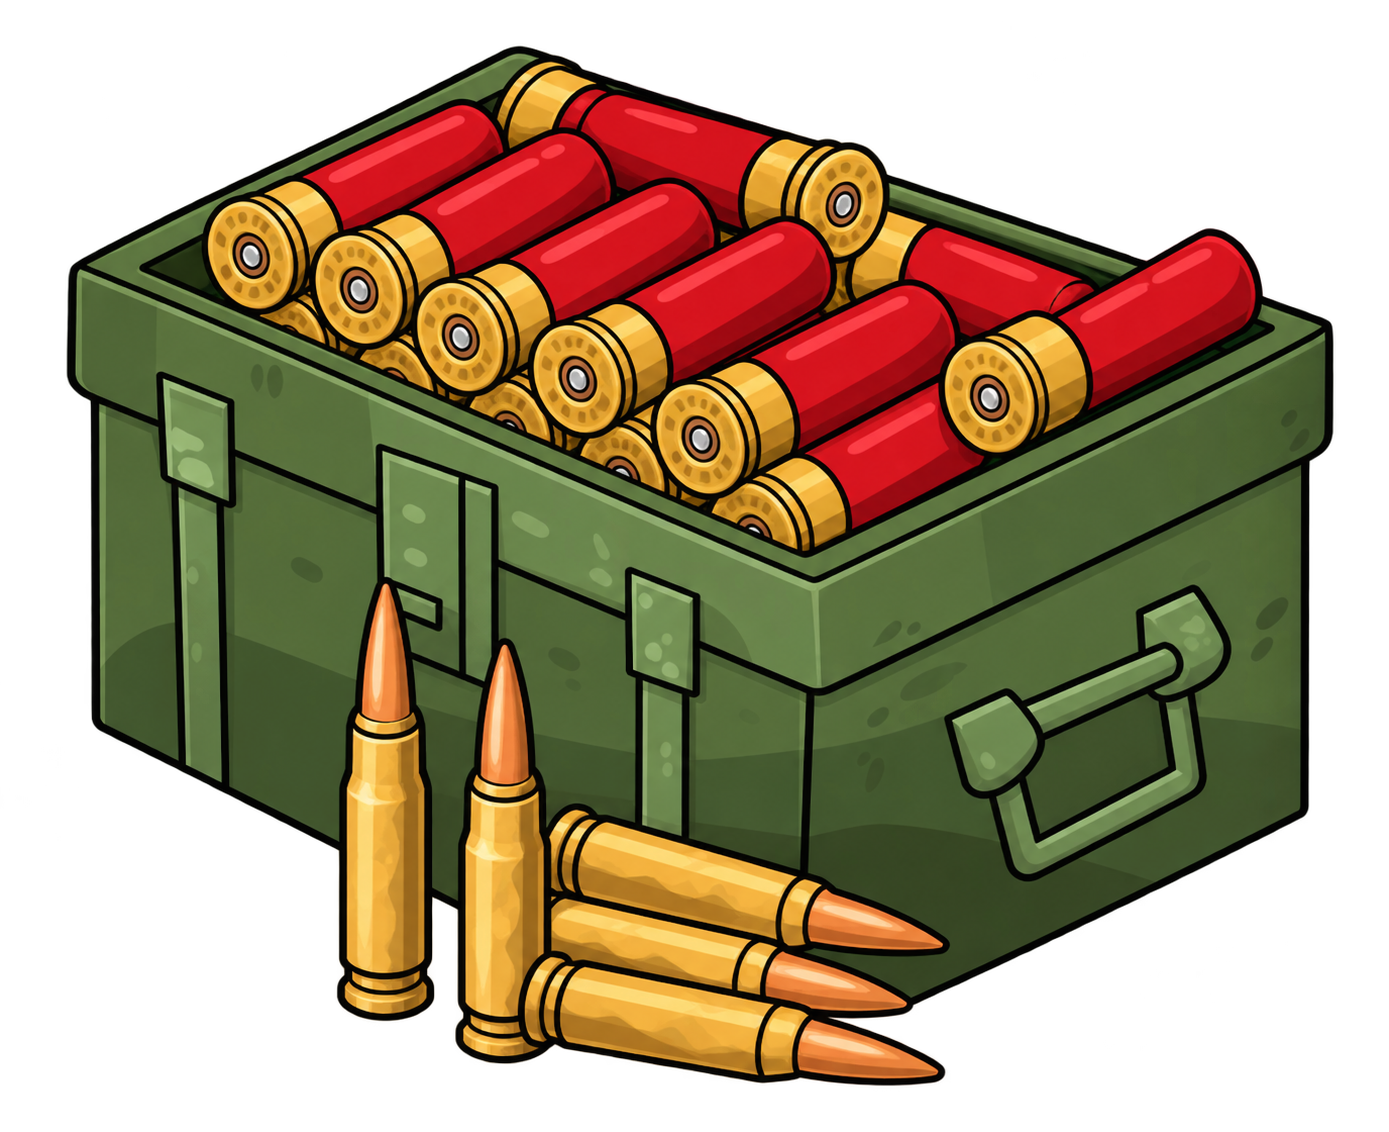
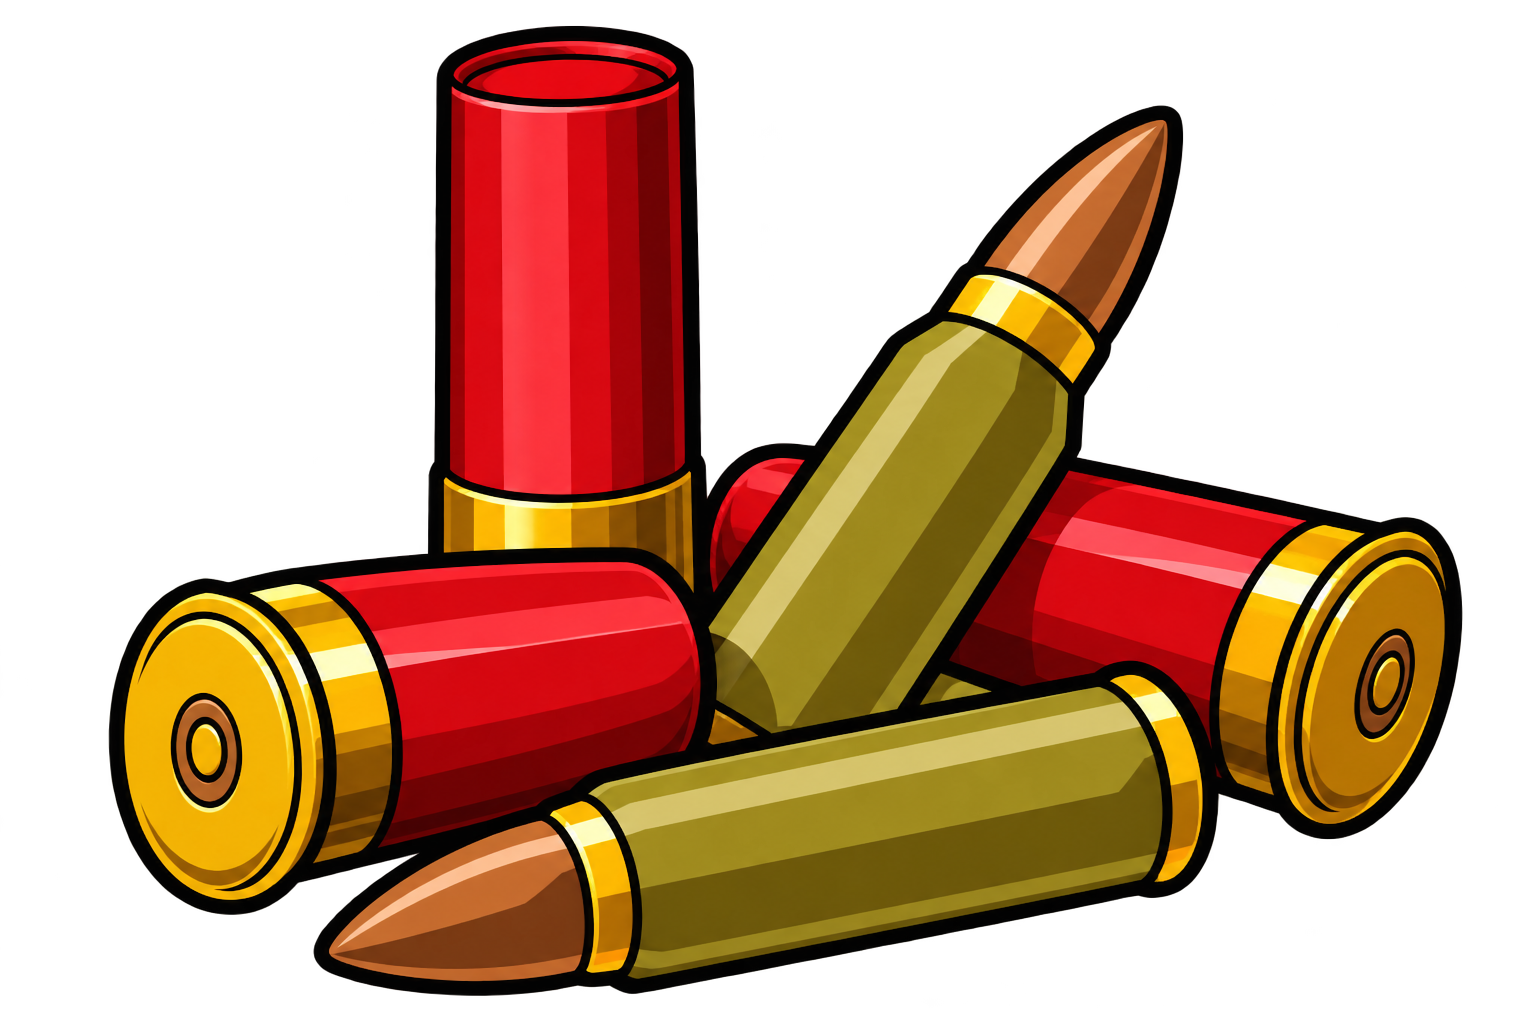
agrego municion dispersa + cambios en el HUD

diff --git a/src/view/hud/HudData.java b/src/view/hud/HudData.java
@@ -1,9 +1,39 @@
 package view.hud;
 
-/** Foto inmutable de lo que el HUD necesita mostrar en este frame (la arma el controlador a partir del modelo). */
-public record HudData(
-        int health, int maxHealth,
-        int shield, int maxShield,
-        double damageBonus,
-        boolean ranged, String weaponName, int ammo, int maxAmmo) {
+/** Foto inmutable de lo que el HUD necesita mostrar en este frame. */
+public final class HudData {
+
+    private final int health;
+    private final int maxHealth;
+    private final int shield;
+    private final int maxShield;
+    private final double damageBonus;
+    private final boolean ranged;
+    private final String weaponName;
+    private final int ammo;
+    private final int maxAmmo;
+
+    public HudData(int health, int maxHealth, int shield, int maxShield,
+                   double damageBonus, boolean ranged, String weaponName,
+                   int ammo, int maxAmmo) {
+        this.health = health;
+        this.maxHealth = maxHealth;
+        this.shield = shield;
+        this.maxShield = maxShield;
+        this.damageBonus = damageBonus;
+        this.ranged = ranged;
+        this.weaponName = weaponName;
+        this.ammo = ammo;
+        this.maxAmmo = maxAmmo;
+    }
+
+    public int health() { return health; }
+    public int maxHealth() { return maxHealth; }
+    public int shield() { return shield; }
+    public int maxShield() { return maxShield; }
+    public double damageBonus() { return damageBonus; }
+    public boolean ranged() { return ranged; }
+    public String weaponName() { return weaponName; }
+    public int ammo() { return ammo; }
+    public int maxAmmo() { return maxAmmo; }
 }

diff --git a/src/model/Ammo.java b/src/model/Ammo.java
@@ -2,15 +2,12 @@ package model;
 
 public class Ammo extends PowerUp {
 
-    private final int amount;
-
-    public Ammo(double x, double y, int amount) {
+    public Ammo(double x, double y) {
         super(x, y);
-        this.amount = amount;
     }
 
     @Override
     protected void apply(Player player) {
-        player.addAmmo(amount);
+        player.addPickupAmmo();
     }
 }

diff --git a/src/model/Player.java b/src/model/Player.java
@@ -202,6 +202,10 @@ public class Player extends Character {
         if (ammoHolder != null) ammoHolder.addAmmo(amount);
     }
 
+    public void addPickupAmmo() {
+    if (ammoHolder != null) ammoHolder.addAmmo(ammoHolder.getAmmoPerPickup());
+    }
+
     public void refillAmmo() {
         if (this.ammoHolder != null) {
             this.ammoHolder.refillAmmo();

diff --git a/src/model/PowerUpSpawner.java b/src/model/PowerUpSpawner.java
@@ -115,7 +115,7 @@ public class PowerUpSpawner {
             case 0 -> new Heal(x, y, 25);
             case 1 -> new Shield(x, y, 50);
             case 2 -> new DamageBoost(x, y, 10000);
-            case 3 -> new Ammo(x, y, 30);
+            case 3 -> new Ammo(x, y);
             default -> new MaxAmmo(x, y);
         };
     }

diff --git a/src/model/GameModel.java b/src/model/GameModel.java
@@ -39,7 +39,7 @@ public class GameModel {
         this.powerUpSpawner = new PowerUpSpawner(state, 4000, 20, 16); // cada 4 s, máx. 20 en el mapa, 16 al empezar
 
         //METODO PARA SPAWNEAR EL BOSS EN EL ESTACIONAMIENTO
-        spawnBoss(6027, 5056);
+        //spawnBoss(6027, 5056);
     }
 
     public void update() {

diff --git a/src/model/Shotgun.java b/src/model/Shotgun.java
@@ -46,4 +46,9 @@ public class Shotgun extends FireArm {
     public boolean isAutomatic() {
         return false;
     }
+
+@Override
+public int getAmmoPerPickup() {
+    return 3;// recibe 3 balas por cada power up de munición
+}
 }

diff --git a/src/model/FireArm.java b/src/model/FireArm.java
@@ -49,6 +49,9 @@ public abstract class FireArm extends Weapon implements AmmoHolder {
     }
 
     @Override
+    public abstract int getAmmoPerPickup();
+
+    @Override
     public boolean isRanged() {
         return true;
     }

diff --git a/src/model/Handgun.java b/src/model/Handgun.java
@@ -11,4 +11,9 @@ public class Handgun extends FireArm {
         return false;
     }
 
+@Override
+public int getAmmoPerPickup() {
+    return 8; // recibe 8 balas por cada power up de munición
+}
+
 }

diff --git a/src/model/Rifle.java b/src/model/Rifle.java
@@ -11,4 +11,9 @@ public class Rifle extends FireArm {
         return true;
     }
 
+@Override
+public int getAmmoPerPickup() {
+    return 10; //recibe 10 balas por cada power up de munición
+}
+
 }

diff --git a/src/model/AmmoHolder.java b/src/model/AmmoHolder.java
@@ -7,4 +7,5 @@ package model;
 public interface AmmoHolder {
     void addAmmo(int amount);
     void refillAmmo();
+    int getAmmoPerPickup();
 }
